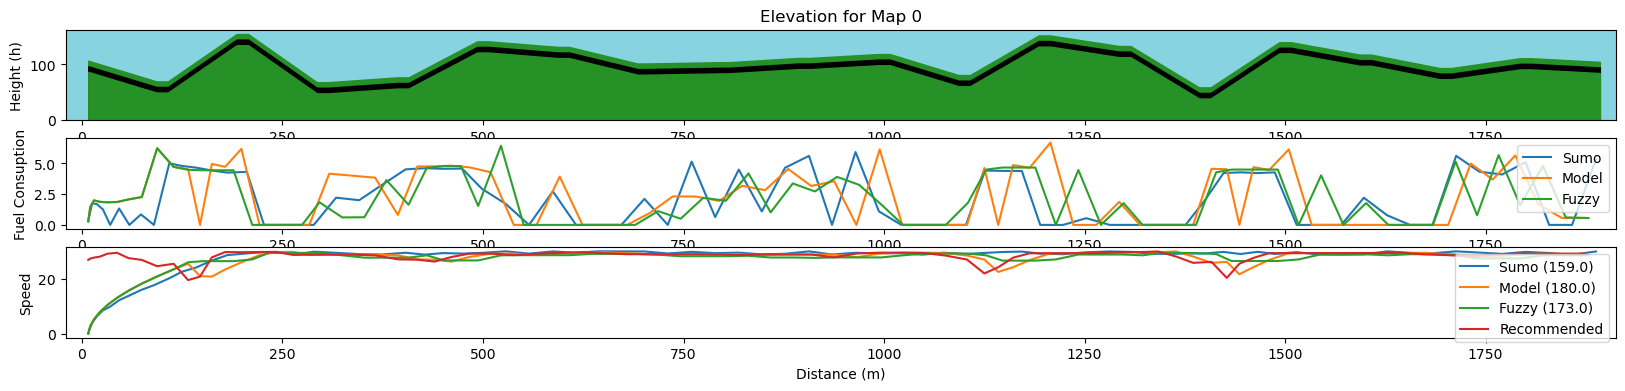
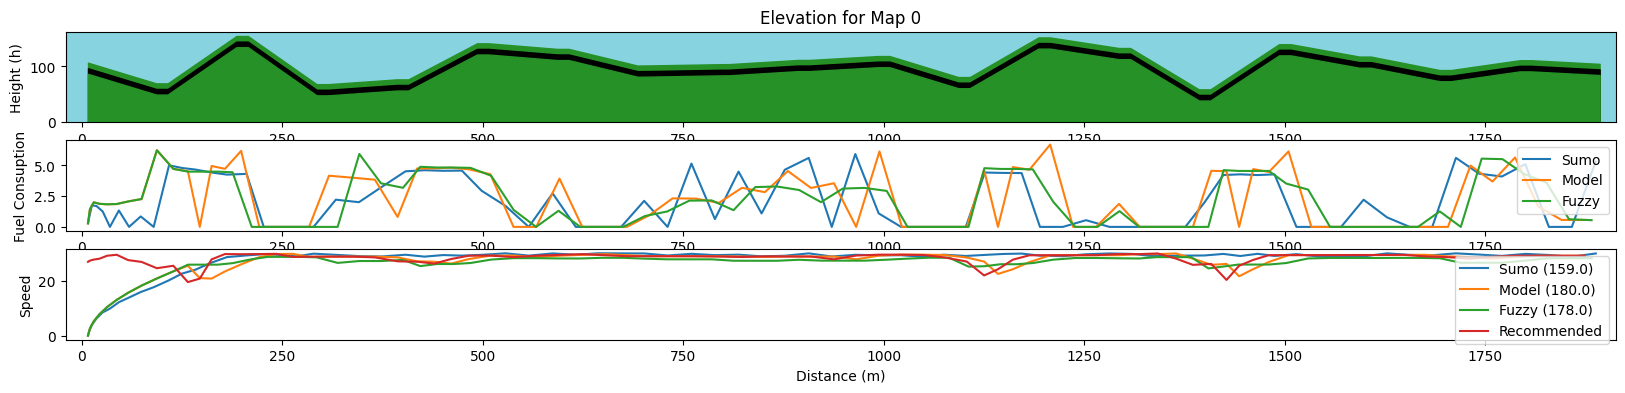
Modificacoes fuzzy

diff --git a/fuzzyV.py b/fuzzyV.py
@@ -47,11 +47,12 @@ class Algorithm:
         A70 = ctrl.Antecedent(np.arange(mimAngle, maxAngle, 1), 'A70')
 
 
-        S = ctrl.Consequent(np.arange(0, 31, 1), 'S')
+        S = ctrl.Consequent(np.arange(20, 31, 1), 'S')
 
         # Automatically creates mapping between crisp and fuzzy values
         # using a standard membership function (triangle)
         IS.automf(names=['low', 'medium', 'high'])
+        S.automf(names=['verylow','low', 'medium', 'high','veryhigh'])
 
         A10.automf(names=['negative', 'neutral', 'positive'])
         A30.automf(names=['negative', 'neutral', 'positive'])
@@ -59,16 +60,16 @@ class Algorithm:
         A70.automf(names=['negative', 'neutral', 'positive'])
 
         # Creates membership functions using different types
-        RG['negative'] = fuzz.gaussmf(RG.universe, -90, 50)
+        RG['negative'] = fuzz.gaussmf(RG.universe, mimAngle, 50)
         RG['neutral'] = fuzz.gaussmf(RG.universe, 0, 30)
-        RG['positive'] = fuzz.gaussmf(RG.universe, 90,50)
+        RG['positive'] = fuzz.gaussmf(RG.universe, maxAngle,50)
 
 
-        S['verylow'] = fuzz.trimf(S.universe, [0, 0, 9])
-        S['low'] = fuzz.trapmf(S.universe, [3, 6, 10, 15])
-        S['medium'] = fuzz.trimf(S.universe, [9, 15, 21])
-        S['high'] = fuzz.trapmf(S.universe, [15, 20, 24, 27])
-        S['veryhigh'] = fuzz.trimf(S.universe, [21, 30, 30])
+        #S['verylow'] = fuzz.trimf(S.universe, [0, 0, 9])
+        #S['low'] = fuzz.trapmf(S.universe, [3, 6, 10, 15])
+        #S['medium'] = fuzz.trimf(S.universe, [9, 15, 21])
+        #S['high'] = fuzz.trapmf(S.universe, [15, 20, 24, 27])
+        #S['veryhigh'] = fuzz.trimf(S.universe, [21, 30, 30])
 
         # Graphically showing the created parting functions
         # IS.view()
@@ -111,7 +112,7 @@ class Algorithm:
 
         # print("Running Fuzzy")
         
-        self.S_simulator.input['IS'] = speed # Instantaneous Speed (0, 30) m/s
+        #self.S_simulator.input['IS'] = speed # Instantaneous Speed (0, 30) m/s
         self.S_simulator.input['RG'] = angle  # Road gradient (-90, 90) grados
         self.S_simulator.input['A10'] = inf10 # Road gradient (-90, 90) grados
         self.S_simulator.input['A30'] = inf30 # Road gradient (-90, 90) grados

diff --git a/final_res.py b/final_res.py
@@ -14,6 +14,7 @@ from keras.models import Sequential
 from keras.layers import Dense
 import shutil
 import fuzzySpeed
+import fuzzyV
 
 
 caminho_veiculo = ['A0B0', 'B0C0', 'C0D0', 'D0E0', 'E0F0', 'F0G0', 'G0H0', 'H0I0', 'I0J0', 'J0K0', 'K0L0', 'L0M0', 'M0N0', 'N0O0', 'O0P0', 'P0Q0', 'Q0R0', 'R0S0', 'S0T0']
@@ -134,6 +135,7 @@ def run(model, mapa):
 
 
     g = fuzzySpeed.Algorithm()
+    v = fuzzyV.Algorithm()
 
     step = 0
 
@@ -192,6 +194,7 @@ def run(model, mapa):
                     inf60 = inf60["angle"]/90
                     inf70 = inf70["angle"]/90
 
+                    #  REDE NEURAL
                     entrada = [speed/max_speed_caminhao, angle, inf10, inf20, inf30, inf40, inf50, inf60, inf70]
                     r = model.predict(np.array([np.array(entrada)]))[0][0]
 
@@ -206,7 +209,8 @@ def run(model, mapa):
                     inf50 = inf50["angle"]/normalization
                     inf70 = inf70["angle"]/normalization
 
-                    r = g.findSpeed(speed/max_speed_caminhao, angle, inf10, inf30, inf50, inf70)
+                    # FUZZY
+                    r = v.findSpeed(speed,angle, inf10, inf30, inf50, inf70)
 
                     traci.vehicle.setSpeed("caminhao",r)
                 fuel_last_step = traci.vehicle.getFuelConsumption("caminhao")
